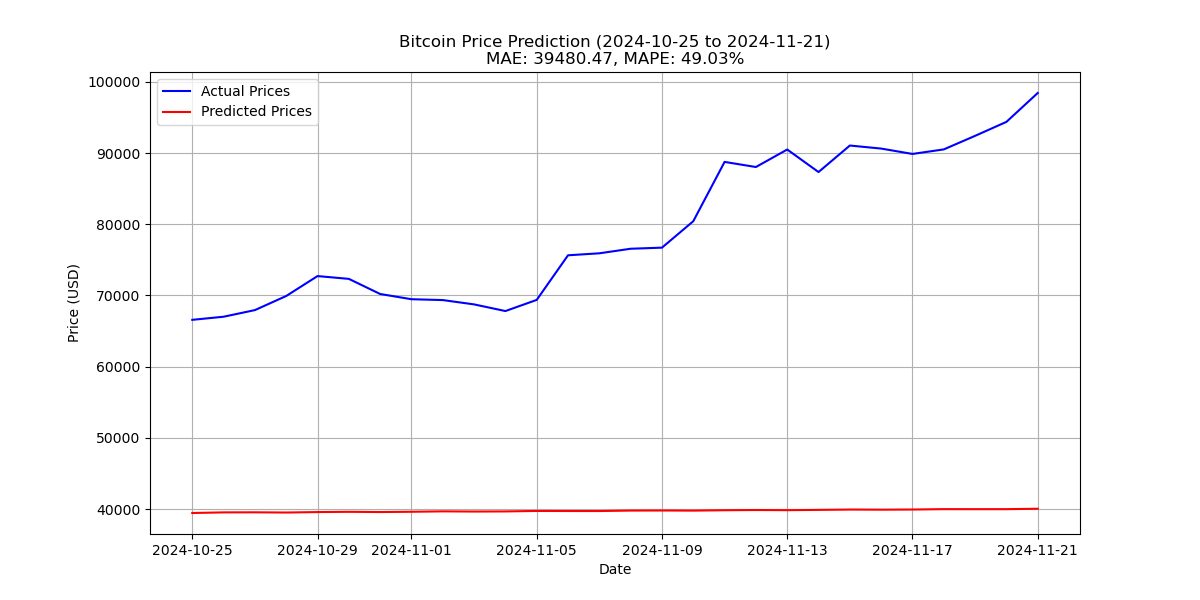
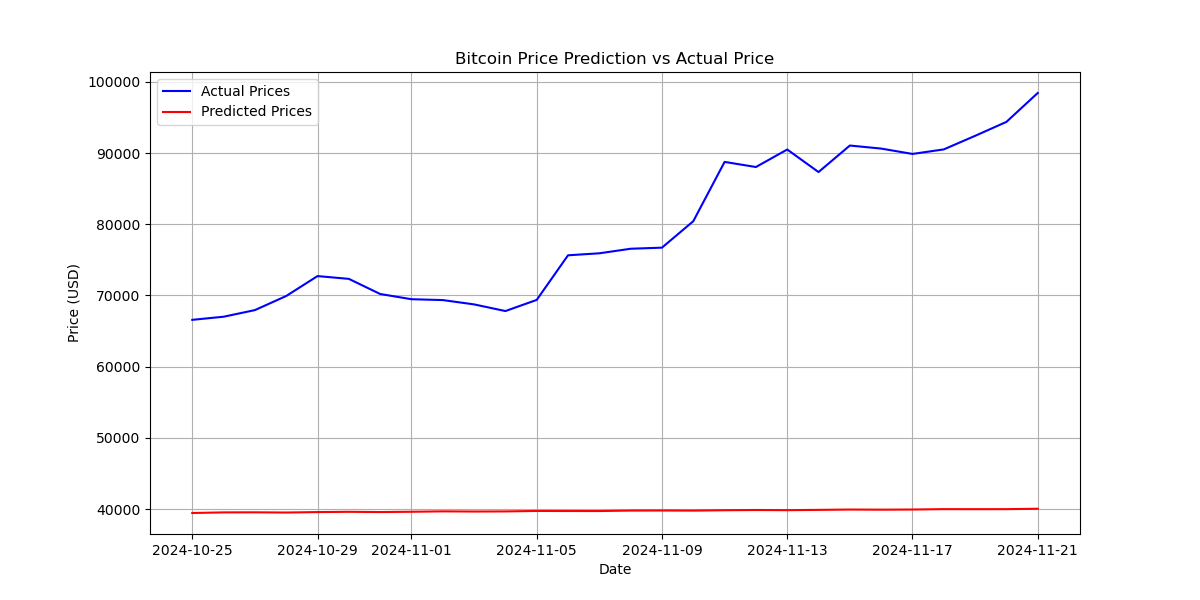
arima function

Changed region(s): [[0.3392, 0.06, 0.7092, 0.12]]

diff --git a/bitcoin_prediction/framework/arima_function.py b/bitcoin_prediction/framework/arima_function.py
@@ -40,24 +40,30 @@ def load_model():
 
 # Predict Bitcoin prices using ARIMA model
 def predict_prices(start_date, end_date):
+    start_time = time.time()
     model_data = load_model()
     model = model_data['model']
-    mae = model_data['mae']
-    mape = model_data['mape']
+    # mae = model_data['mae']
+    # mape = model_data['mape']
 
     start_date = pd.to_datetime(start_date)
     end_date = pd.to_datetime(end_date)
     date_range = pd.date_range(start=start_date, end=end_date, freq='D').to_period('D')
     exogenous_data = pd.DataFrame({'sentiment_scores': [0] * len(date_range)}, index=date_range)
 
-    start_time = time.time()
     forecast_object = model.get_forecast(steps=len(date_range), exog=exogenous_data)
     predictions = forecast_object.predicted_mean # Predicted values
+    # Fetch actual prices
+    actual_prices = fetch_actual_prices(start_date, end_date)
+     # Calculate metrics
+    mae = mean_absolute_error(actual_prices, predictions)
+    mape = mean_absolute_percentage_error(actual_prices, predictions) * 100
+
     end_time = time.time()
     runtime = int((end_time - start_time) * 1000) # milliseconds
 
     pred_list = [(str(date), round(pred, 3)) for date, pred in zip(date_range, predictions)] # List of predictions
-
+    print(f'Predicted prices: {pred_list}, Runtime: {runtime:.0f} milliseconds, MAE: {mae:.2f}, MAPE: {mape:.2f}%')
     return {
         'mae': mae,
         'mape': mape,
@@ -107,14 +113,16 @@ def predict_and_compare_future():
     plt.figure(figsize=(12, 6))
     plt.plot(actual_prices.index, actual_prices, label='Actual Prices', color='blue')
     plt.plot(predictions.index, predictions, label='Predicted Prices', color='red')
-    plt.title(f'Bitcoin Price Prediction (2024-10-25 to 2024-11-21)\nMAE: {mae:.2f}, MAPE: {mape:.2f}%')
+    # plt.title(f'Bitcoin Price Prediction (2024-10-25 to 2024-11-21)\nMAE: {mae:.2f}, MAPE: {mape:.2f}%')
+    plt.title('Bitcoin Price Prediction vs Actual Price')
     plt.xlabel('Date')
     plt.ylabel('Price (USD)')
     plt.legend()
     plt.grid()
     plt.savefig('Future_Price_Comparison.png')
     plt.show()
-
+    # Future MAE: 39480.47
+    # Future MAPE: 49.03%
     print(f"Future MAE: {mae:.2f}")
     print(f"Future MAPE: {mape:.2f}%")
 
@@ -141,7 +149,8 @@ def predict_and_compare_historical():
     plt.figure(figsize=(12, 6))
     plt.plot(actual_prices.index, actual_prices, label='Actual Prices', color='blue')
     plt.plot(predictions.index, predictions, label='Predicted Prices', color='red')
-    plt.title(f'Bitcoin Price Prediction (2022-04 to 2024-10)\nMAE: {mae:.2f}, MAPE: {mape:.2f}%')
+    # plt.title(f'Bitcoin Price Prediction (2022-04 to 2024-10)\nMAE: {mae:.2f}, MAPE: {mape:.2f}%')
+    plt.title('Bitcoin Price Prediction vs Actual Price')
     plt.xlabel('Date')
     plt.ylabel('Price (USD)')
     plt.legend()
@@ -155,7 +164,9 @@ def predict_and_compare_historical():
 # Example usage
 if __name__ == "__main__":
     # Compare future prices
-    predict_and_compare_future()
+    # predict_and_compare_future()
 
     # Compare historical prices
-    predict_and_compare_historical()
+    # predict_and_compare_historical()
+
+    predict_prices('2024-11-22', '2024-11-28')
